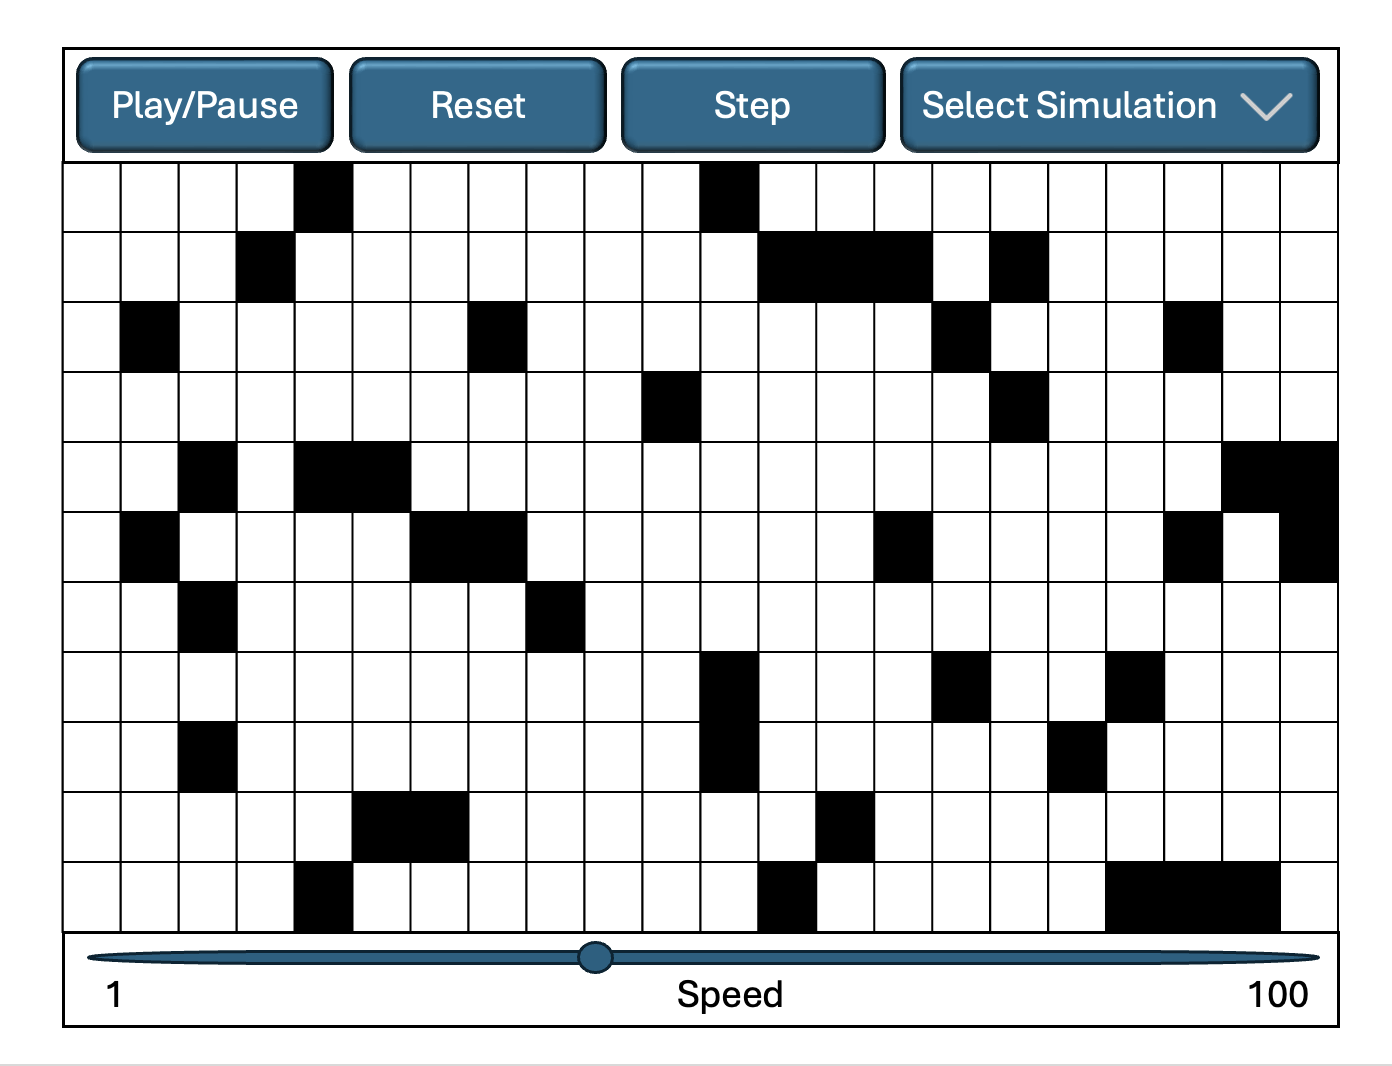
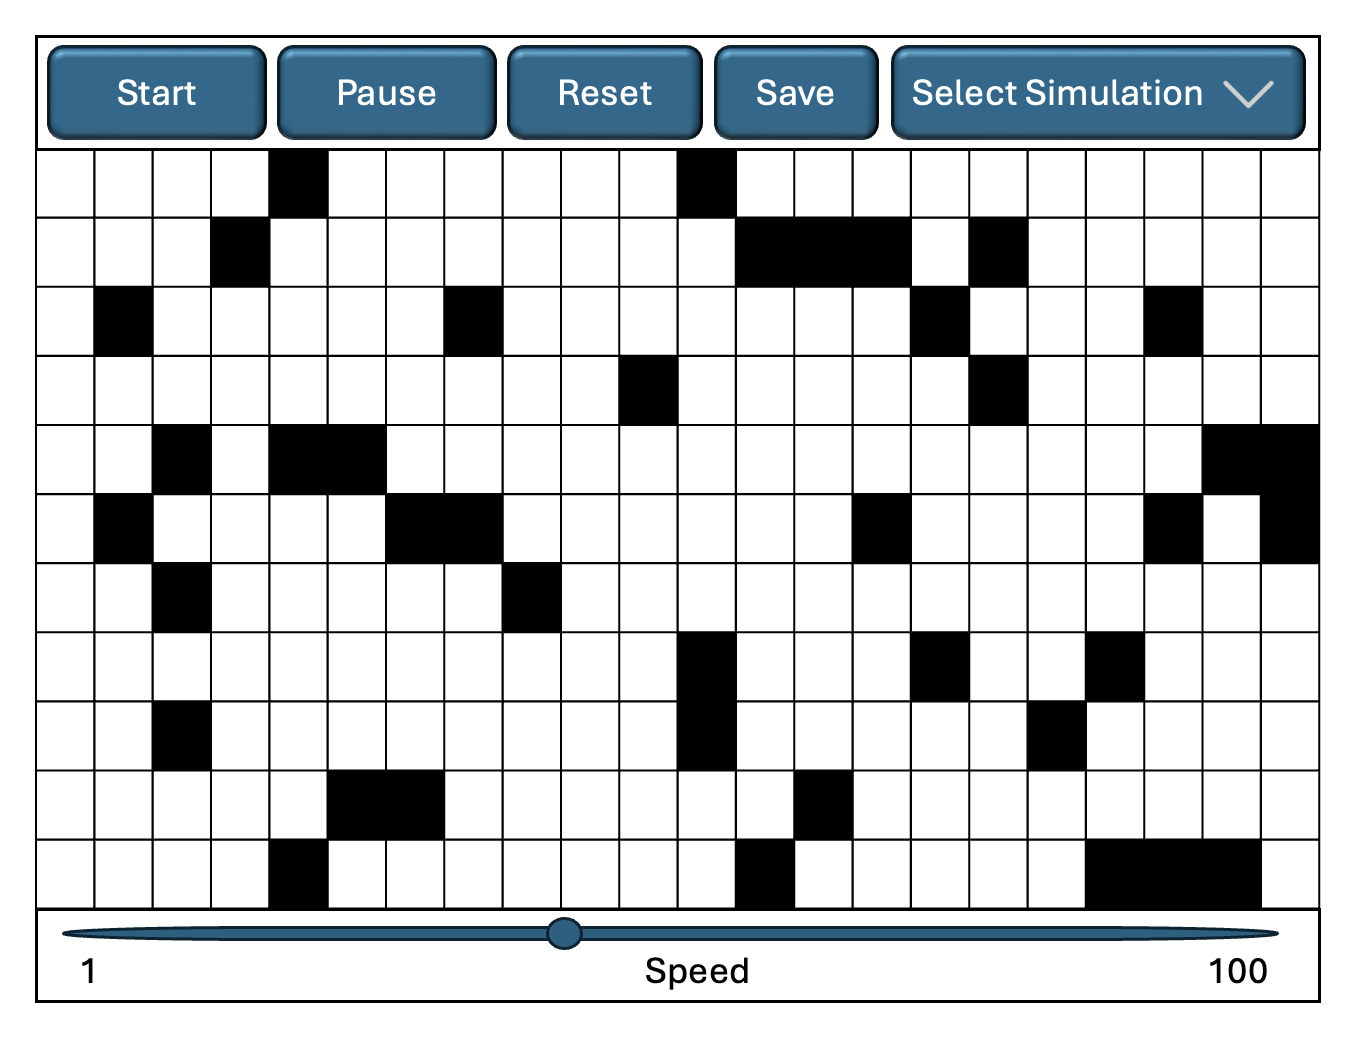
Data: update example XML config files to include relevant parameters and comments indicating what each state means in the context of the simulation

Changed region(s): [[0.0308, 0.0307, 0.9868, 0.9808]]

diff --git a/doc/DESIGN_PLAN.md b/doc/DESIGN_PLAN.md
@@ -16,7 +16,16 @@ At a high level, the program creates a robust and adaptable framework for simula
 
 ## User Interface
 
-![Our UI Prototype for Cellular Automata](images/UI_design.png "A potential UI for Cellular Automata")
+Example UI displaying simulation and relevant buttons:
+* Our UI will display the simulation itself according to the particular ruleset and will have both "start" and "pause" buttons to start and stop the simulation, respectively. It will also contain a "save" button, which will save the state of the simulation in an XML file. It will also contain a "reset" button to revert the simulation to its original state and a "Select Simulation" button to chose which type of simulation to load.
+
+![Cellular Automata Simulation Display UI Prototype](images/UI_design.png "A UI display prototype for Cellular Automata simulation")
+
+Example descriptive information dialog box:
+* The dialog box will be used to display relevant simulation information, such as the simulation type, a description of the simulation, authors, color mappings for cells, and parameters (if they exist).
+
+![Cellular Automata Dialog Box UI Prototype](images/UI_dialog_box_example.png "A dialog box prototype to display relevant simulation information")
+
 
 ## Configuration File Format
 
@@ -40,7 +49,7 @@ Model Layer:
 View Layer:
 
 - SimulationView: Responsible for rendering the simulation. Listens for state changes in the model adn updates the grid display accordingly.
-- GridView: Specifcially handles the rendering of the grid of cells. When the state of the cells changes, this view ensures the grid is updated visually.
+- GridView: Specifically handles the rendering of the grid of cells. When the state of the cells changes, this view ensures the grid is updated visually.
 - SimulationInfoPanel: Displays data such as the simulation's title, description, and parameters
 - ControlPanel: Provides buttons for controlling the simulation (start, pause, stop) and sliders to adjust simulation speed. Can also include an option to load new simulation configurations.
 
@@ -178,8 +187,7 @@ In the design, method signatures are carefully crafted to abstract away the diff
 
 Use Case 1: Apply the rules to a middle cell: set the next state of a cell to dead by counting its number of neighbors using the Game of Life rules for a cell in the middle (i.e., with all its neighbors)
 
-* Within step() of the Simulation class, call updateState(cell) of the Grid class, which calls the countAliveNeighbors() method of Grid class, the getState(cell) method of the Cell class to check if it's alive or dead. In our use case, the cell would be dead.
-  and we call setNextState(cell) of the Cell class according to the game rules in the Simulation class which uses the return value of the countAliveNeighbors() method
+- Within step() of the Simulation class, call updateState(cell) of the Grid class, which calls the countAliveNeighbors() method of Grid class, the getState(cell) method of the Cell class to check if it's alive or dead. In our use case, the cell would be dead. Then we call setNextState(cell) of the Cell class according to the game rules in the Simulation class which uses the return value of the countAliveNeighbors() method
 
 Use Case 2: Apply the rules to an edge cell: set the next state of a cell to live by counting its number of neighbors using the Game of Life rules for a cell on the edge (i.e., with some of its neighbors missing)
 
